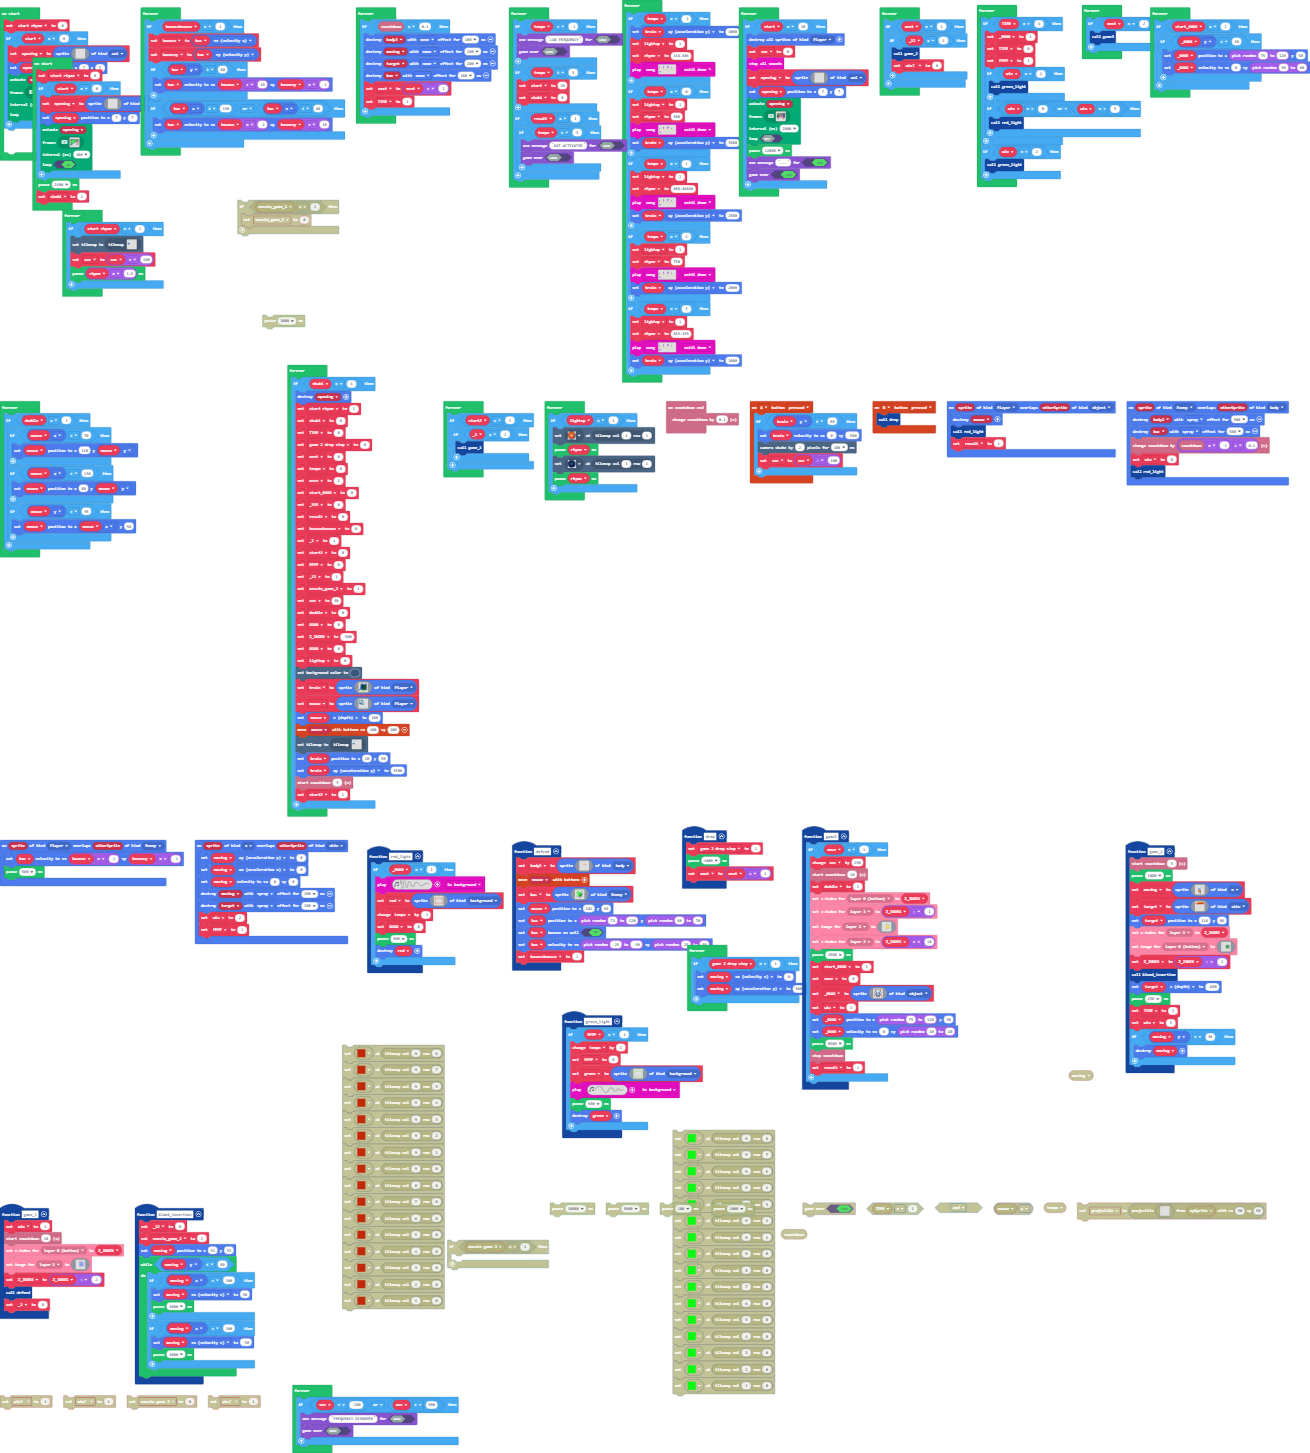
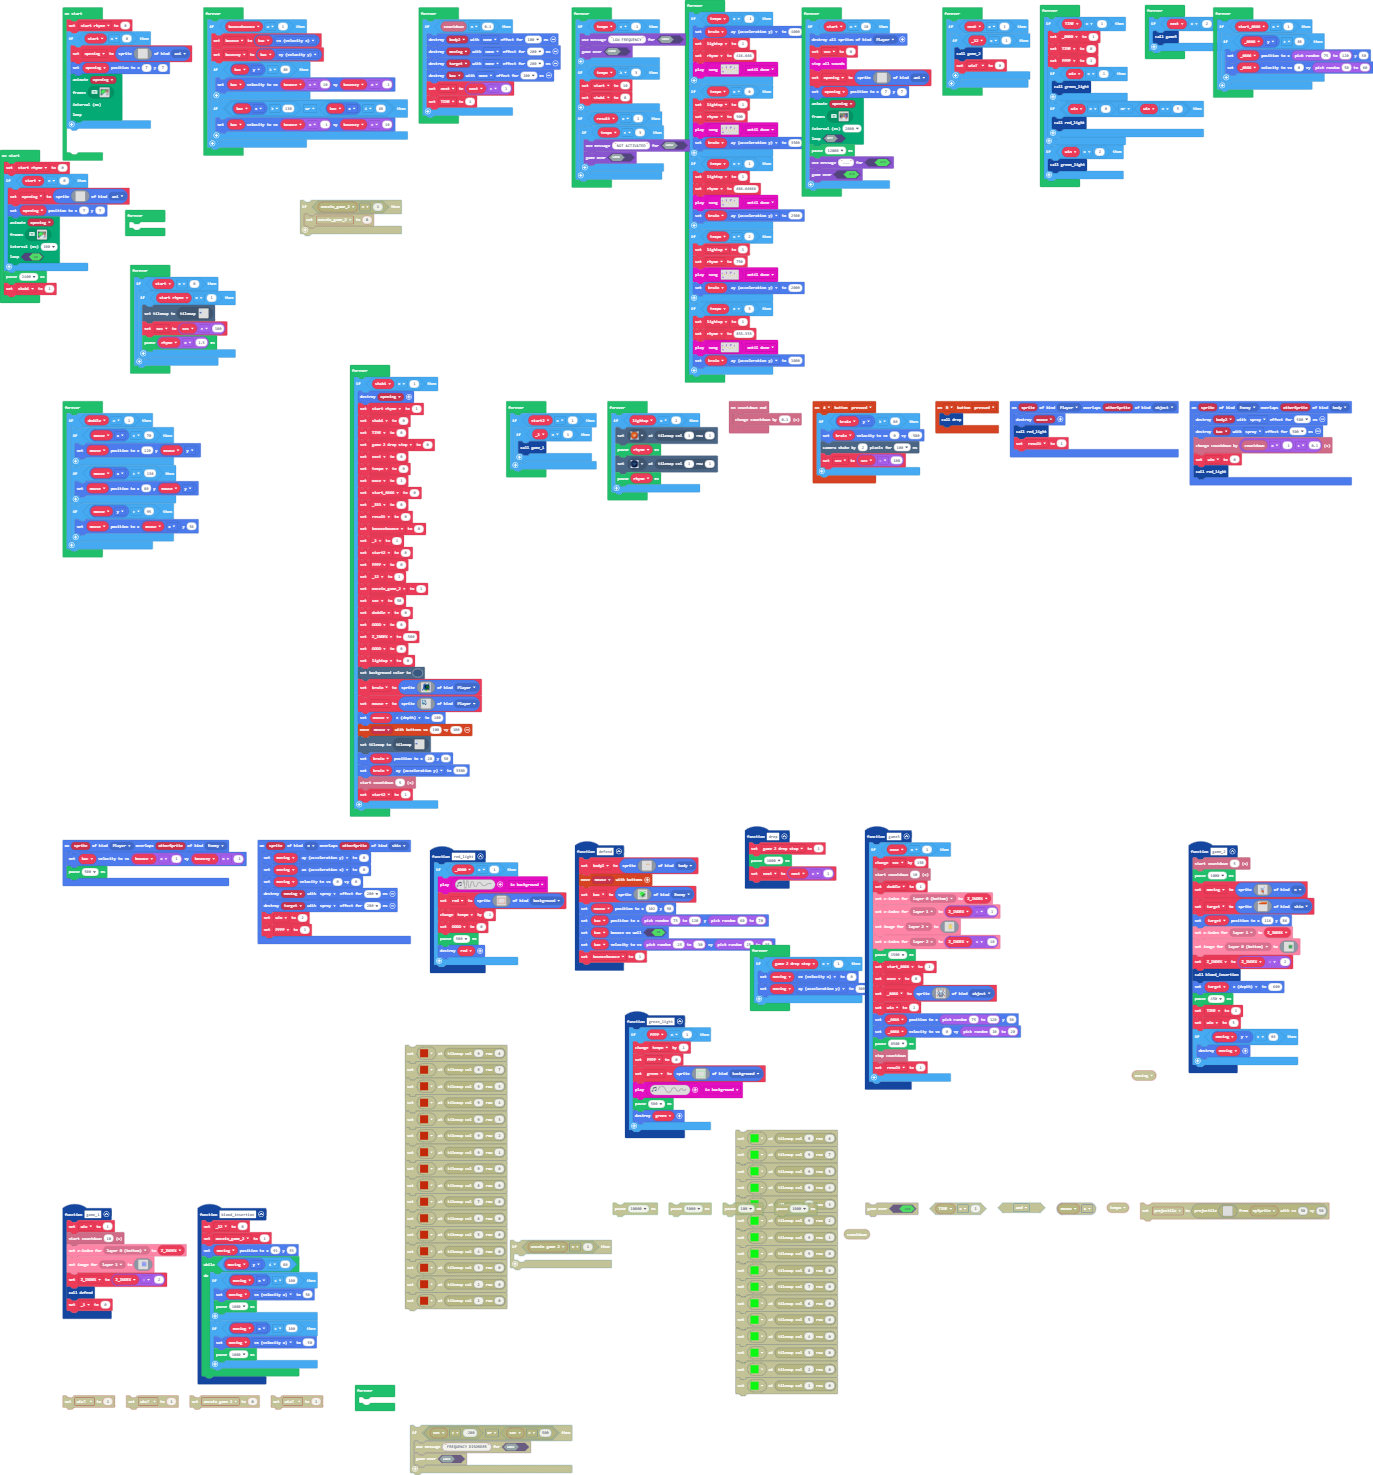
Update main.blocks, main.ts

Changed region(s): [[0.0, 0.0, 1.0, 1.0], [0.8244, 0.5575, 0.9771, 0.7433]]

diff --git a/main.ts b/main.ts
@@ -4533,10 +4533,15 @@ forever(function () {
     }
 })
 forever(function () {
-    if (start_rhyme == 1) {
-        tiles.setCurrentTilemap(tilemap`level6`)
-        sec = sec + 100
-        pause(rhyme * 1.5)
+	
+})
+forever(function () {
+    if (start == 0) {
+        if (start_rhyme == 1) {
+            tiles.setCurrentTilemap(tilemap`level6`)
+            sec = sec + 100
+            pause(rhyme * 1.5)
+        }
     }
 })
 forever(function () {
@@ -4645,8 +4650,5 @@ forever(function () {
     }
 })
 forever(function () {
-    if (sec < -200 || sec > 500) {
-        game.setGameOverMessage(false, "FREQUENCY DISORDER")
-        game.gameOver(false)
-    }
+	
 })
